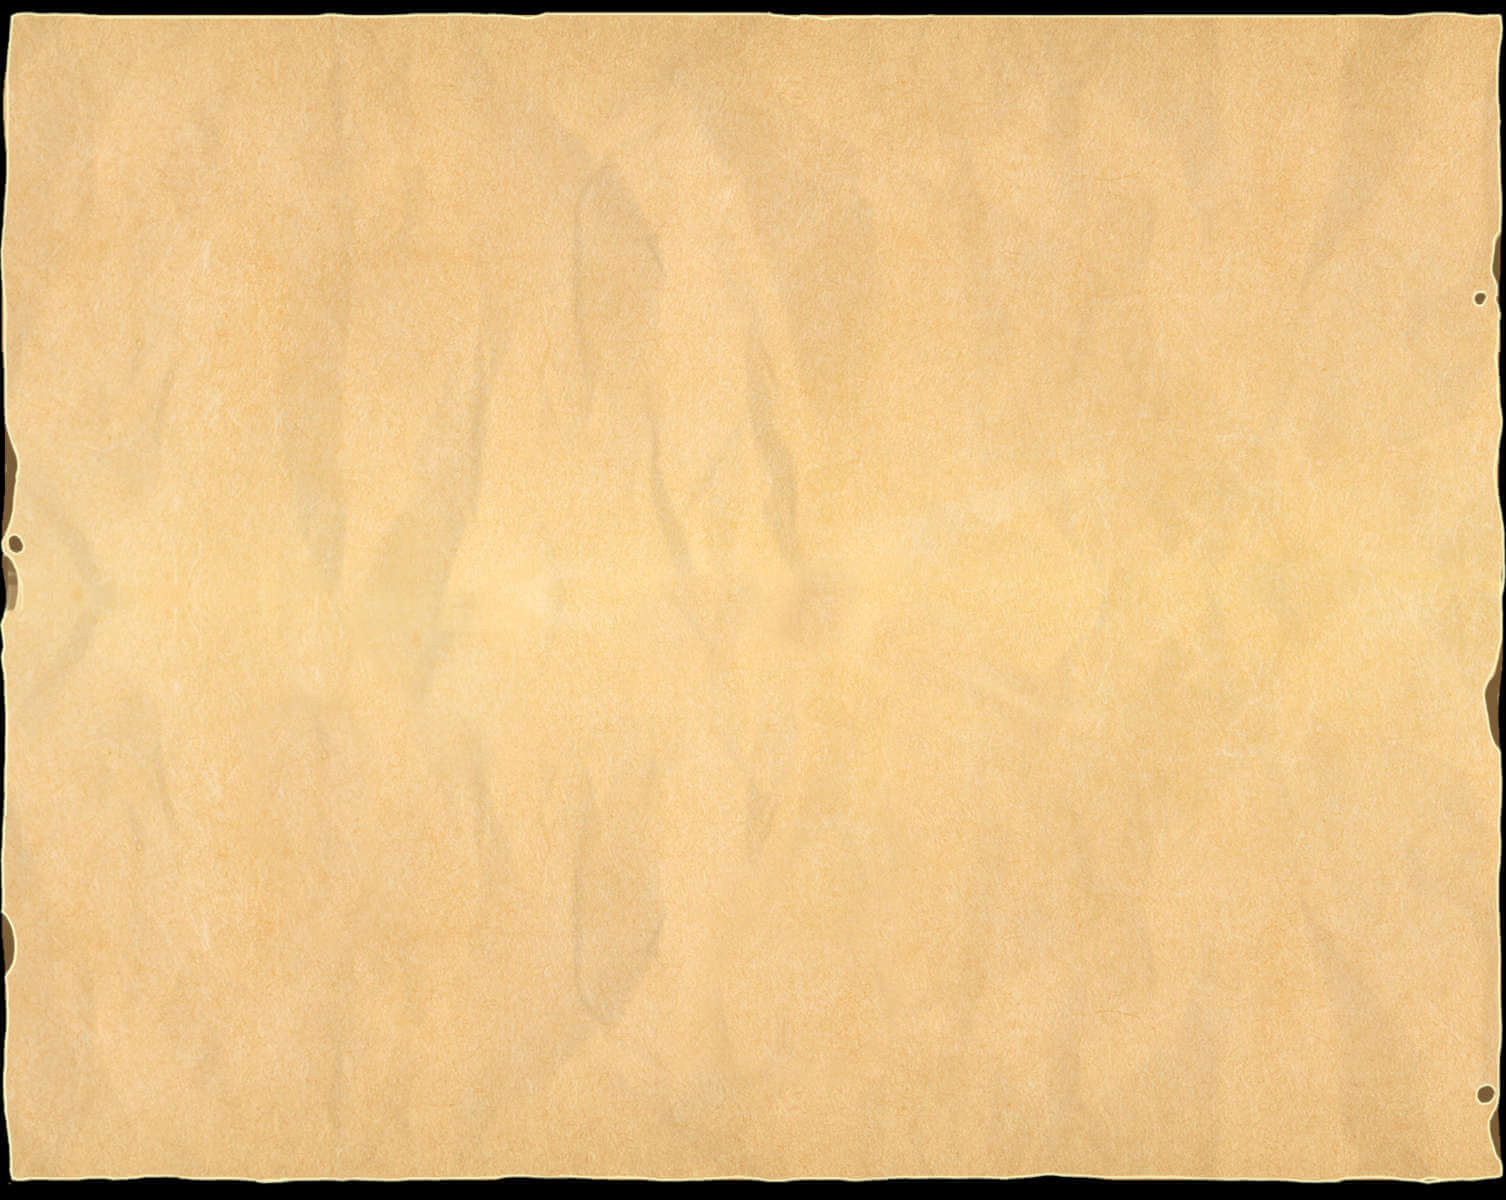
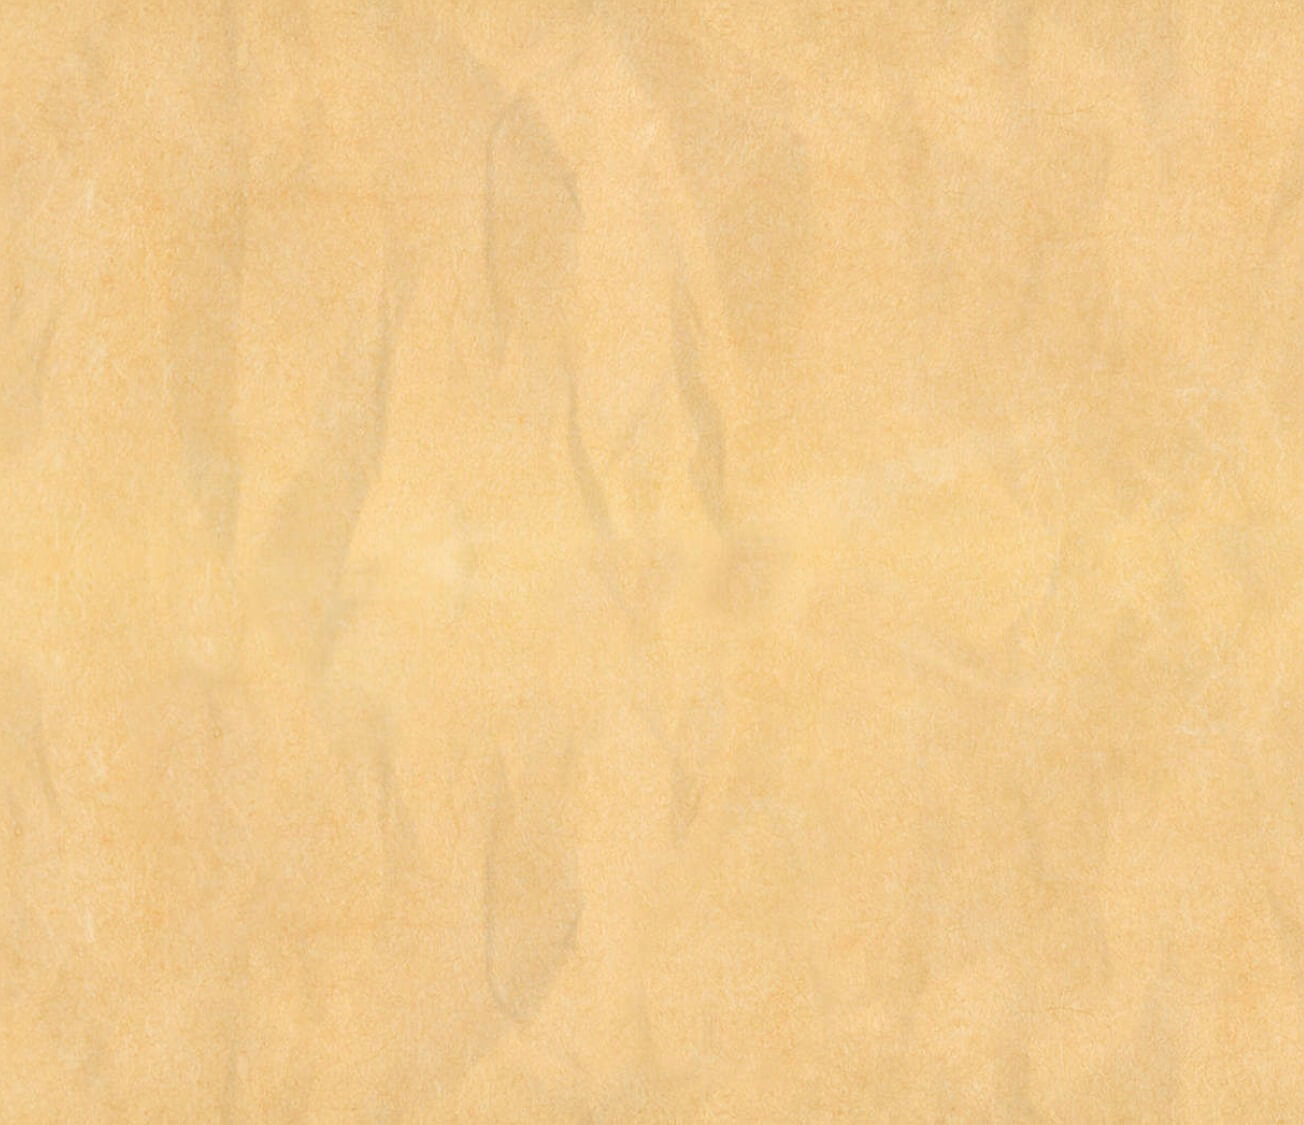
add seamless background, mobile navbar, adjust responsive

diff --git a/frontend/src/components/Navigation.vue b/frontend/src/components/Navigation.vue
@@ -8,37 +8,74 @@
         Convocation
       </div>
     </a>
-    <div class="nav__links">
-      <router-link to="/" class="nav__links-item">Create event</router-link>
-      <router-link v-if="loggedIn" to="/my-events" class="nav__links-item">Your events</router-link>
-      <div
-        class="nav__languages"
-        @mouseleave="languageHovered = false"
-      >
-        <button
-          class="nav__links-item"
-          @mouseover="languageHovered = true"
-          @click="languageHovered = !languageHovered"
-        >
-          {{ $t('languageName') }}
-        </button>
-        <transition name="slide-down">
-          <div v-if="languageHovered" class="nav__languages-dropdown">
-            <button
-              v-for="languageCode in languageSelection"
-              :key="`lang-${languageCode}`"
-              class="nav__links-item"
-              @click="changeLocale(languageCode)"
-            >
-              {{ $t('languageName', languageCode) }}
-            </button>
-          </div>
-        </transition>
+    <transition name="sidebar-transition">
+      <div v-if="sidebarDisplayed" class="sidebar">
+        <ul class="sidebar__list">
+          <li @click="toggleSidebar" class="sidebar__item">
+            <router-link to="/">Create event</router-link>
+          </li>
+          <li @click="toggleSidebar" v-if="loggedIn" class="sidebar__item">
+            <router-link to="/my-events">Your events</router-link>
+          </li>
+          <li @click="toggleSidebar" class="sidebar__item">
+            <router-link to="/donate">Donate</router-link>
+          </li>
+          <li @click="toggleSidebar" class="sidebar__item">
+            <router-link to="/event">ex event</router-link>
+          </li>
+          <li @click="toggleSidebar" class="sidebar__item">
+            <button v-if="!loggedIn" class="sidebar__button" @click="$emit('clickSignIn')">Sign in</button>
+          </li>
+          <li @click="toggleSidebar" class="sidebar__item">
+            <button v-if="loggedIn" class="sidebar__button">Log out</button>
+          </li>
+        </ul>
+        <ul class="sidebar__list sidebar__languages">
+          <li v-for="languageCode in languageSelection" :key="`${languageCode}-mobile`" @click="chooseLanguageMobile(languageCode)">
+            {{ $t('languageName', languageCode) }}
+          </li>
+        </ul>
       </div>
-      <router-link to="/donate" class="nav__links-item">Donate</router-link>
-      <router-link to="/event" class="nav__links-item">exevent</router-link>
-      <button v-if="!loggedIn" class="nav__links-item" @click="$emit('clickSignIn')">Sign in</button>
-      <button v-if="loggedIn" class="nav__links-item">Log out</button>
+    </transition>
+    <div class="nav__desktop">
+      <div class="nav__links">
+        <router-link to="/" class="nav__links-item">Create event</router-link>
+        <router-link v-if="loggedIn" to="/my-events" class="nav__links-item">Your events</router-link>
+        <div
+          class="nav__languages"
+          @mouseleave="languageHovered = false"
+        >
+          <button
+            class="nav__links-item"
+            @mouseover="languageHovered = true"
+            @click="languageHovered = !languageHovered"
+          >
+            {{ $t('languageName') }}
+          </button>
+          <transition name="slide-down">
+            <div v-if="languageHovered" class="nav__languages-dropdown">
+              <button
+                v-for="languageCode in languageSelection"
+                :key="`lang-${languageCode}`"
+                class="nav__links-item"
+                @click="changeLocale(languageCode)"
+              >
+                {{ $t('languageName', languageCode) }}
+              </button>
+            </div>
+          </transition>
+        </div>
+        <router-link to="/donate" class="nav__links-item">Donate</router-link>
+        <router-link to="/event" class="nav__links-item">exevent</router-link>
+        <button v-if="!loggedIn" class="nav__links-item" @click="$emit('clickSignIn')">Sign in</button>
+        <button v-if="loggedIn" class="nav__links-item">Log out</button>
+      </div>
+    </div>
+    <div class="nav__mobile" @click="toggleSidebar">
+      <img
+        class="nav__mobile-icon"
+        :class="{'nav__mobile-icon--active': sidebarDisplayed }"
+        :src="require('@/assets/images/pen.png')" alt="">
     </div>
   </div>
 </template>
@@ -51,7 +88,8 @@ export default {
     return {
       languageHovered: false,
       loggedIn: false,
-      languages
+      languages,
+      sidebarDisplayed: false
     }
   },
   computed: {
@@ -63,6 +101,13 @@ export default {
     changeLocale (locale) {
       this.$i18n.locale = locale
       this.languageHovered = false
+    },
+    toggleSidebar () {
+      this.sidebarDisplayed = !this.sidebarDisplayed
+    },
+    chooseLanguageMobile (languageCode) {
+      this.changeLocale(languageCode)
+      this.toggleSidebar()
     }
   }
 }
@@ -70,14 +115,50 @@ export default {
 
 <style lang="scss" scoped>
 .nav {
+  width: $body-width-sm;
+  margin: 0 auto;
   display: flex;
   justify-content: space-between;
-  width: $nav-width;
-  margin: 0 auto;
   margin-bottom: $spacer * 10;
+
+  @media screen and (min-width: $size-lg) {
+    width: $body-width-lg;
+  }
+
+  &__desktop {
+    display: none;
+
+    @media screen and (min-width: $size-md) {
+      display: flex;
+    }
+  }
+
+  &__mobile {
+    display: flex;
+    align-items: center;
+
+    @media screen and (min-width: $size-md) {
+      display: none;
+    }
+  }
+
+  &__mobile-icon {
+    width: $spacer * 5;
+    height: $spacer * 5;
+    mix-blend-mode: hard-light;
+    filter: drop-shadow(2px 2px 5px black);
+    cursor: pointer;
+
+    &--active {
+      mix-blend-mode: initial;
+      z-index: 4;
+    }
+  }
+
 
   &__logo {
     display: flex;
+    align-items: center;
   }
 
   &__logo-icon {
@@ -113,7 +194,7 @@ export default {
 
     &:hover {
       color: black;
-       text-shadow: 2px 2px 4px rgba(0, 0, 0, 0.1);
+      text-shadow: 2px 2px 4px rgba(0, 0, 0, 0.1);
     }
   }
 
@@ -130,6 +211,77 @@ export default {
     & > * {
       text-align: left;
     }
+  }
+}
+
+.sidebar {
+  min-height: 100vh;
+  width: 100vw;
+  background-color: $c-brown;
+  position: fixed;
+  right: 0;
+  top: 0;
+  z-index: 3;
+  padding-top: $spacer * 5;
+
+  @media screen and (min-width: $size-md) {
+    display: none;
+  }
+
+  &__list {
+    list-style: none;
+    color: $c-light;
+    font-size: $font-size-lg;
+    padding: 2rem 0;
+  }
+
+  &__item {
+    & > a {
+      padding: $spacer $spacer * 3;
+      display: block;
+      width: 100%;
+    }
+  }
+
+  &__button {
+    @include btn-reset;
+    font-size: inherit;
+    padding: $spacer $spacer * 3;
+    width: 100%;
+    text-align: left;
+  }
+
+  &__languages {
+    position: relative;
+
+    &::before {
+      content: "";
+      width: 15%;
+      left: $spacer * 3;
+      top: 0;
+      height: 1px;
+      background-color: wheat;
+      position: absolute;
+    }
+
+    & > li {
+      padding: $spacer $spacer * 3;
+      display: block;
+      width: 100%;
+    }
+  }
+}
+
+.sidebar-transition {
+  &-enter-active {
+    transition: all 0.3s ease-in-out;
+  }
+  &-leave-active {
+    transition: all 0.3s ease-in-out;
+  }
+  &-enter,
+  &-leave-to {
+    transform: translateX(100%);
   }
 }
 </style>

diff --git a/frontend/src/components/CreateEvent.vue b/frontend/src/components/CreateEvent.vue
@@ -174,8 +174,16 @@ export default {
 
 <style lang="scss">
 .home {
-  width: $body-width;
+  width: $body-width-sm;
   margin: 0 auto;
+
+  @media screen and (min-width: $size-lg) {
+    width: $body-width-lg;
+  }
+
+  @media screen and (min-width: $size-xxl) {
+    width: $body-width-xl;
+  }
 
   &__info {
     margin: 0 auto;

diff --git a/frontend/src/assets/styles/main.scss b/frontend/src/assets/styles/main.scss
@@ -23,6 +23,7 @@ $font-size-xxl: 28px;
 
 // Colors
 $c-dark: rgb(51, 51, 51);
+$c-light: rgb(229, 226, 226);
 $c-blue: #1672DD;
 $c-blue-dark: rgb(4, 71, 148);
 $c-blue-light: rgb(28, 116, 20);
@@ -48,6 +49,7 @@ a {
 html {
   box-sizing: border-box;
   color: $c-dark;
+  overflow-y: scroll;
 }
 
 input, textarea {

diff --git a/frontend/src/App.vue b/frontend/src/App.vue
@@ -49,9 +49,7 @@ export default {
   -moz-osx-font-smoothing: grayscale;
   min-height: 100vh;
   background-image: url('~@/assets/images/background.jpg');
-  background-repeat: no-repeat;
-  background-size: 120%;
-  background-position: center;
+  background-position: top left;
   padding-top: $spacer * 3;
 }
 
